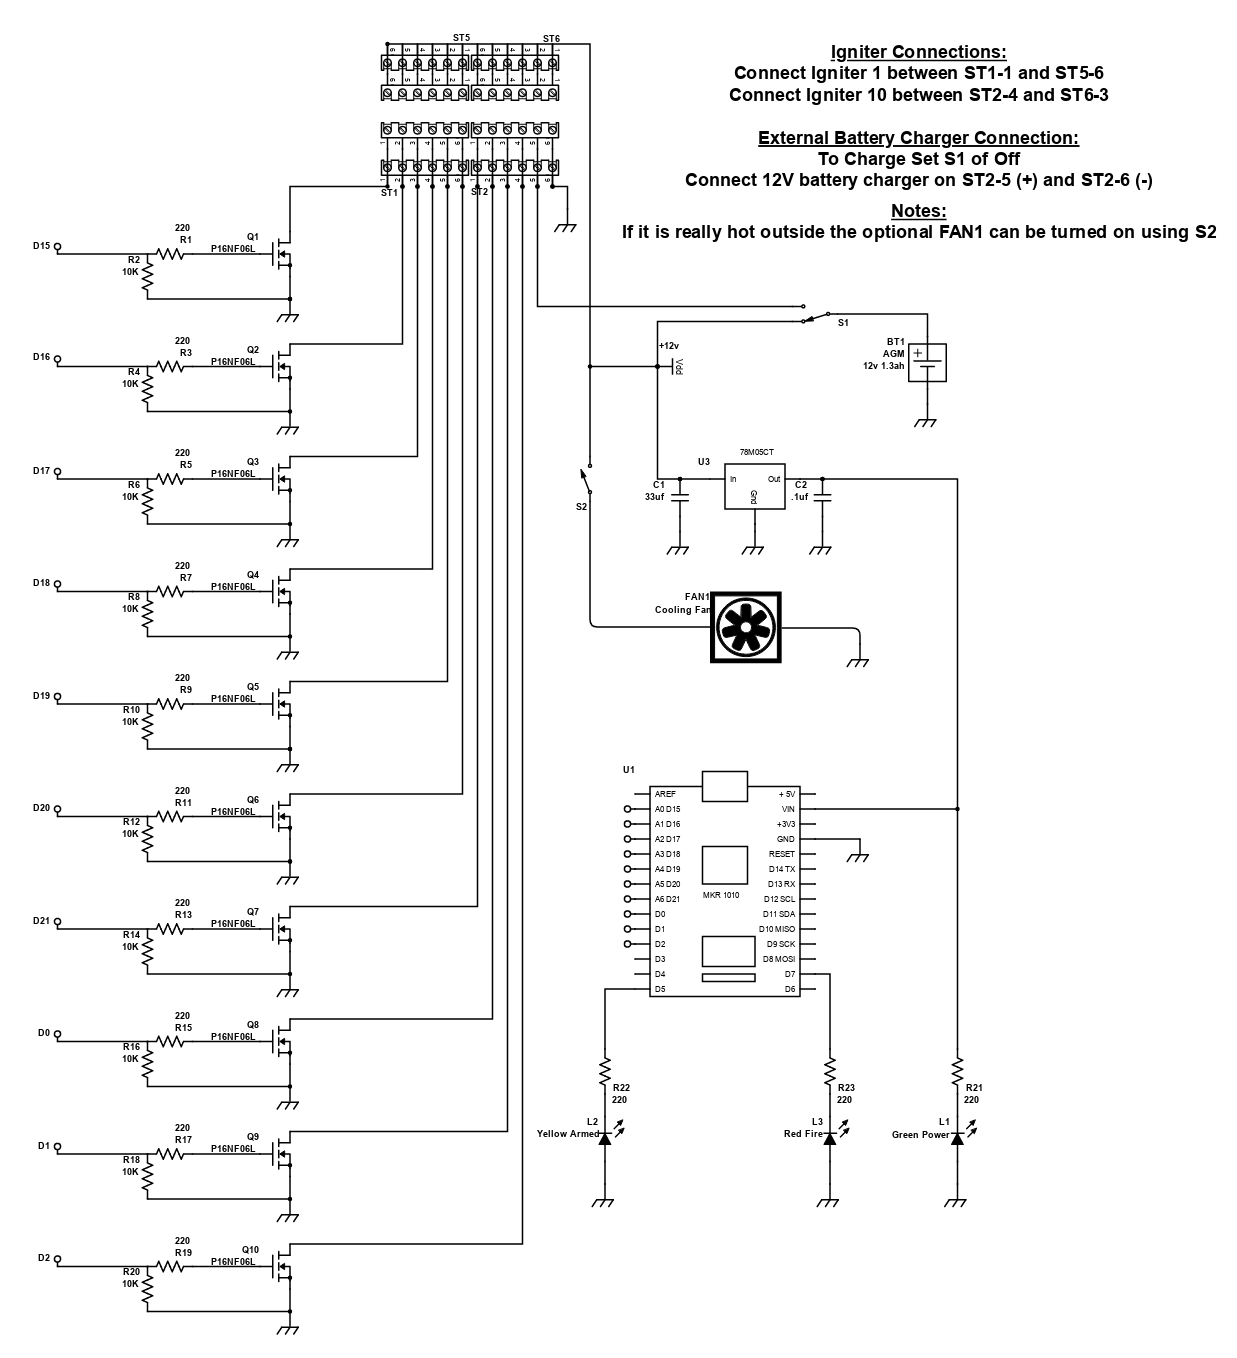
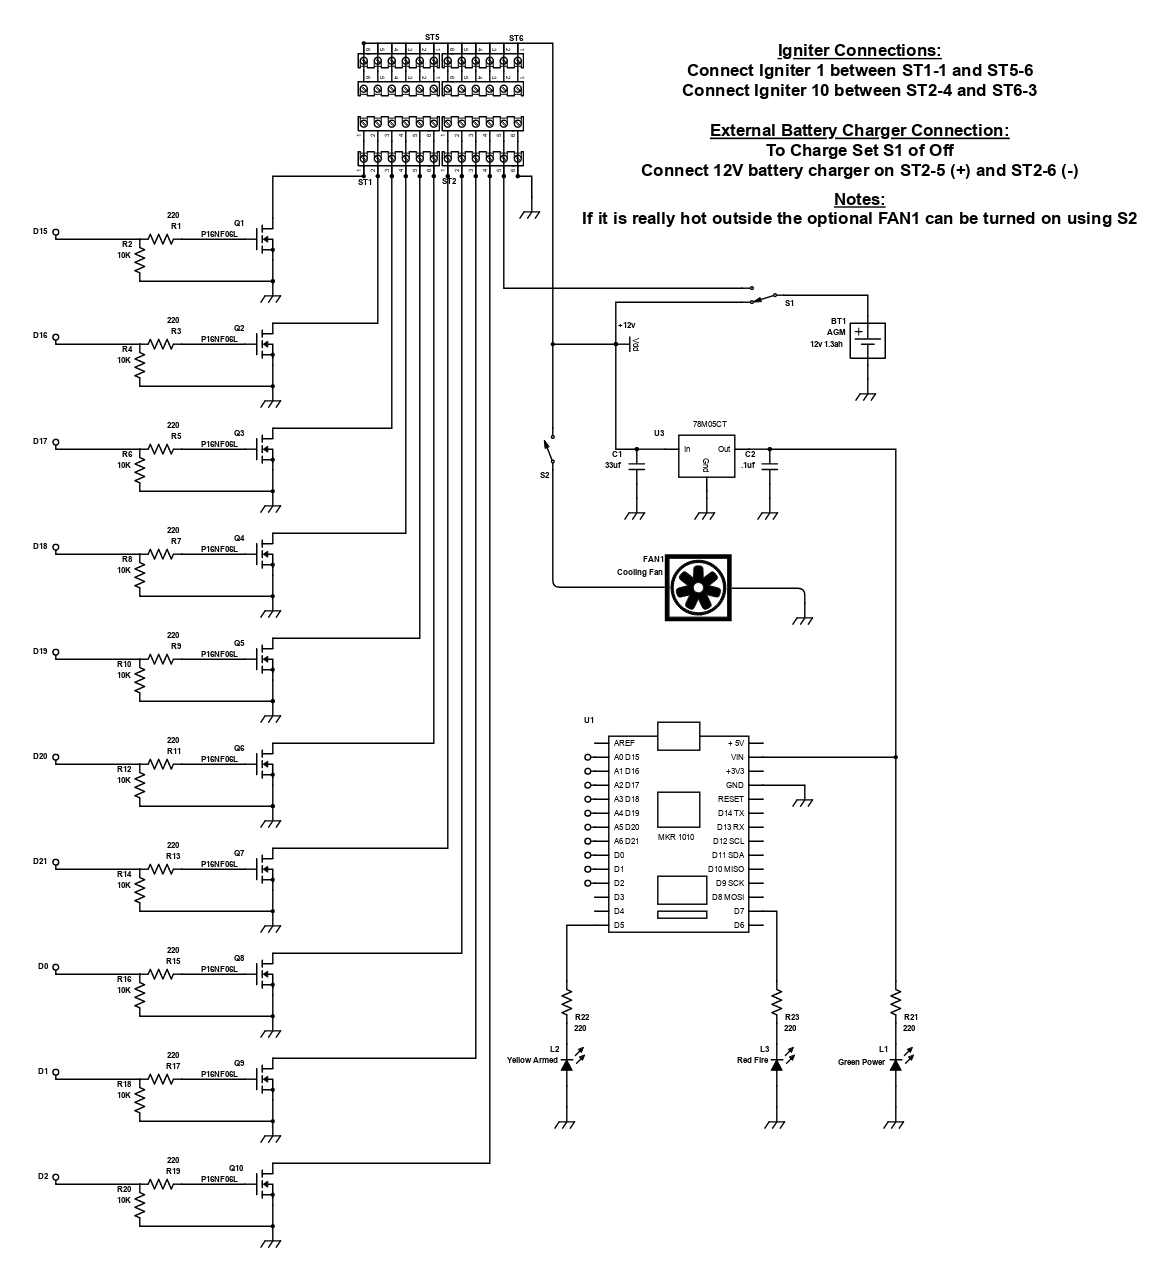
Reduced size of Schematic Changed File Names Added Info to README.md

diff --git a/network_parameters.h b/network_parameters.h
@@ -1,0 +1,14 @@
+// your network SSID (Name)
+#define MYHOME_SSID "your network name"
+
+// your network password
+#define MYHOME_PASSWORD "your network password"
+
+// ipdaddress you want your arduino board to use
+// keep in mind this address must be available and on the same network as your router
+// for example my router's address is 167.80.0.1
+// i'm telling my arduino to be address 167.80.0.99
+#define MYHOME_IP_OCT1 167
+#define MYHOME_IP_OCT2 80
+#define MYHOME_IP_OCT3 0
+#define MYHOME_IP_OCT4 99

diff --git a/README.md b/README.md
@@ -1,2 +1,17 @@
 # Fireworks-Controller
-Arduino MKR WiFi 1010 Web Based Fireworks Controller 
+<u>Arduino MKR WiFi 1010 Web Based Fireworks Controller</u> 
+
+My family and I love Fireworks and I love Building things with Arduino products.  What better way to combine both loves then to build a Fireworks Controller.
+ There are lots of commercial products available and I am sure there are several micro controller products already out there, but hey one more can't hurt.
+
+<b>Old School Method:</b>
+
+I would lay out several rows of fireworks and effects, fuse them together then get up from my chair and light them one at a time.  Lighting fireworks is fun sitting back with a cocktail and enjoying the show with the family is lot more fun (hey what's wrong with mixing booze and explosives, really what could go wrong)!
+
+
+<b>Fancy Pants Arduino Method:</b>
+
+I wanted a Web Based product to use at my house (uses my home WiFi) that would set off several rows, one at a time as I directed. 
+
+
+
